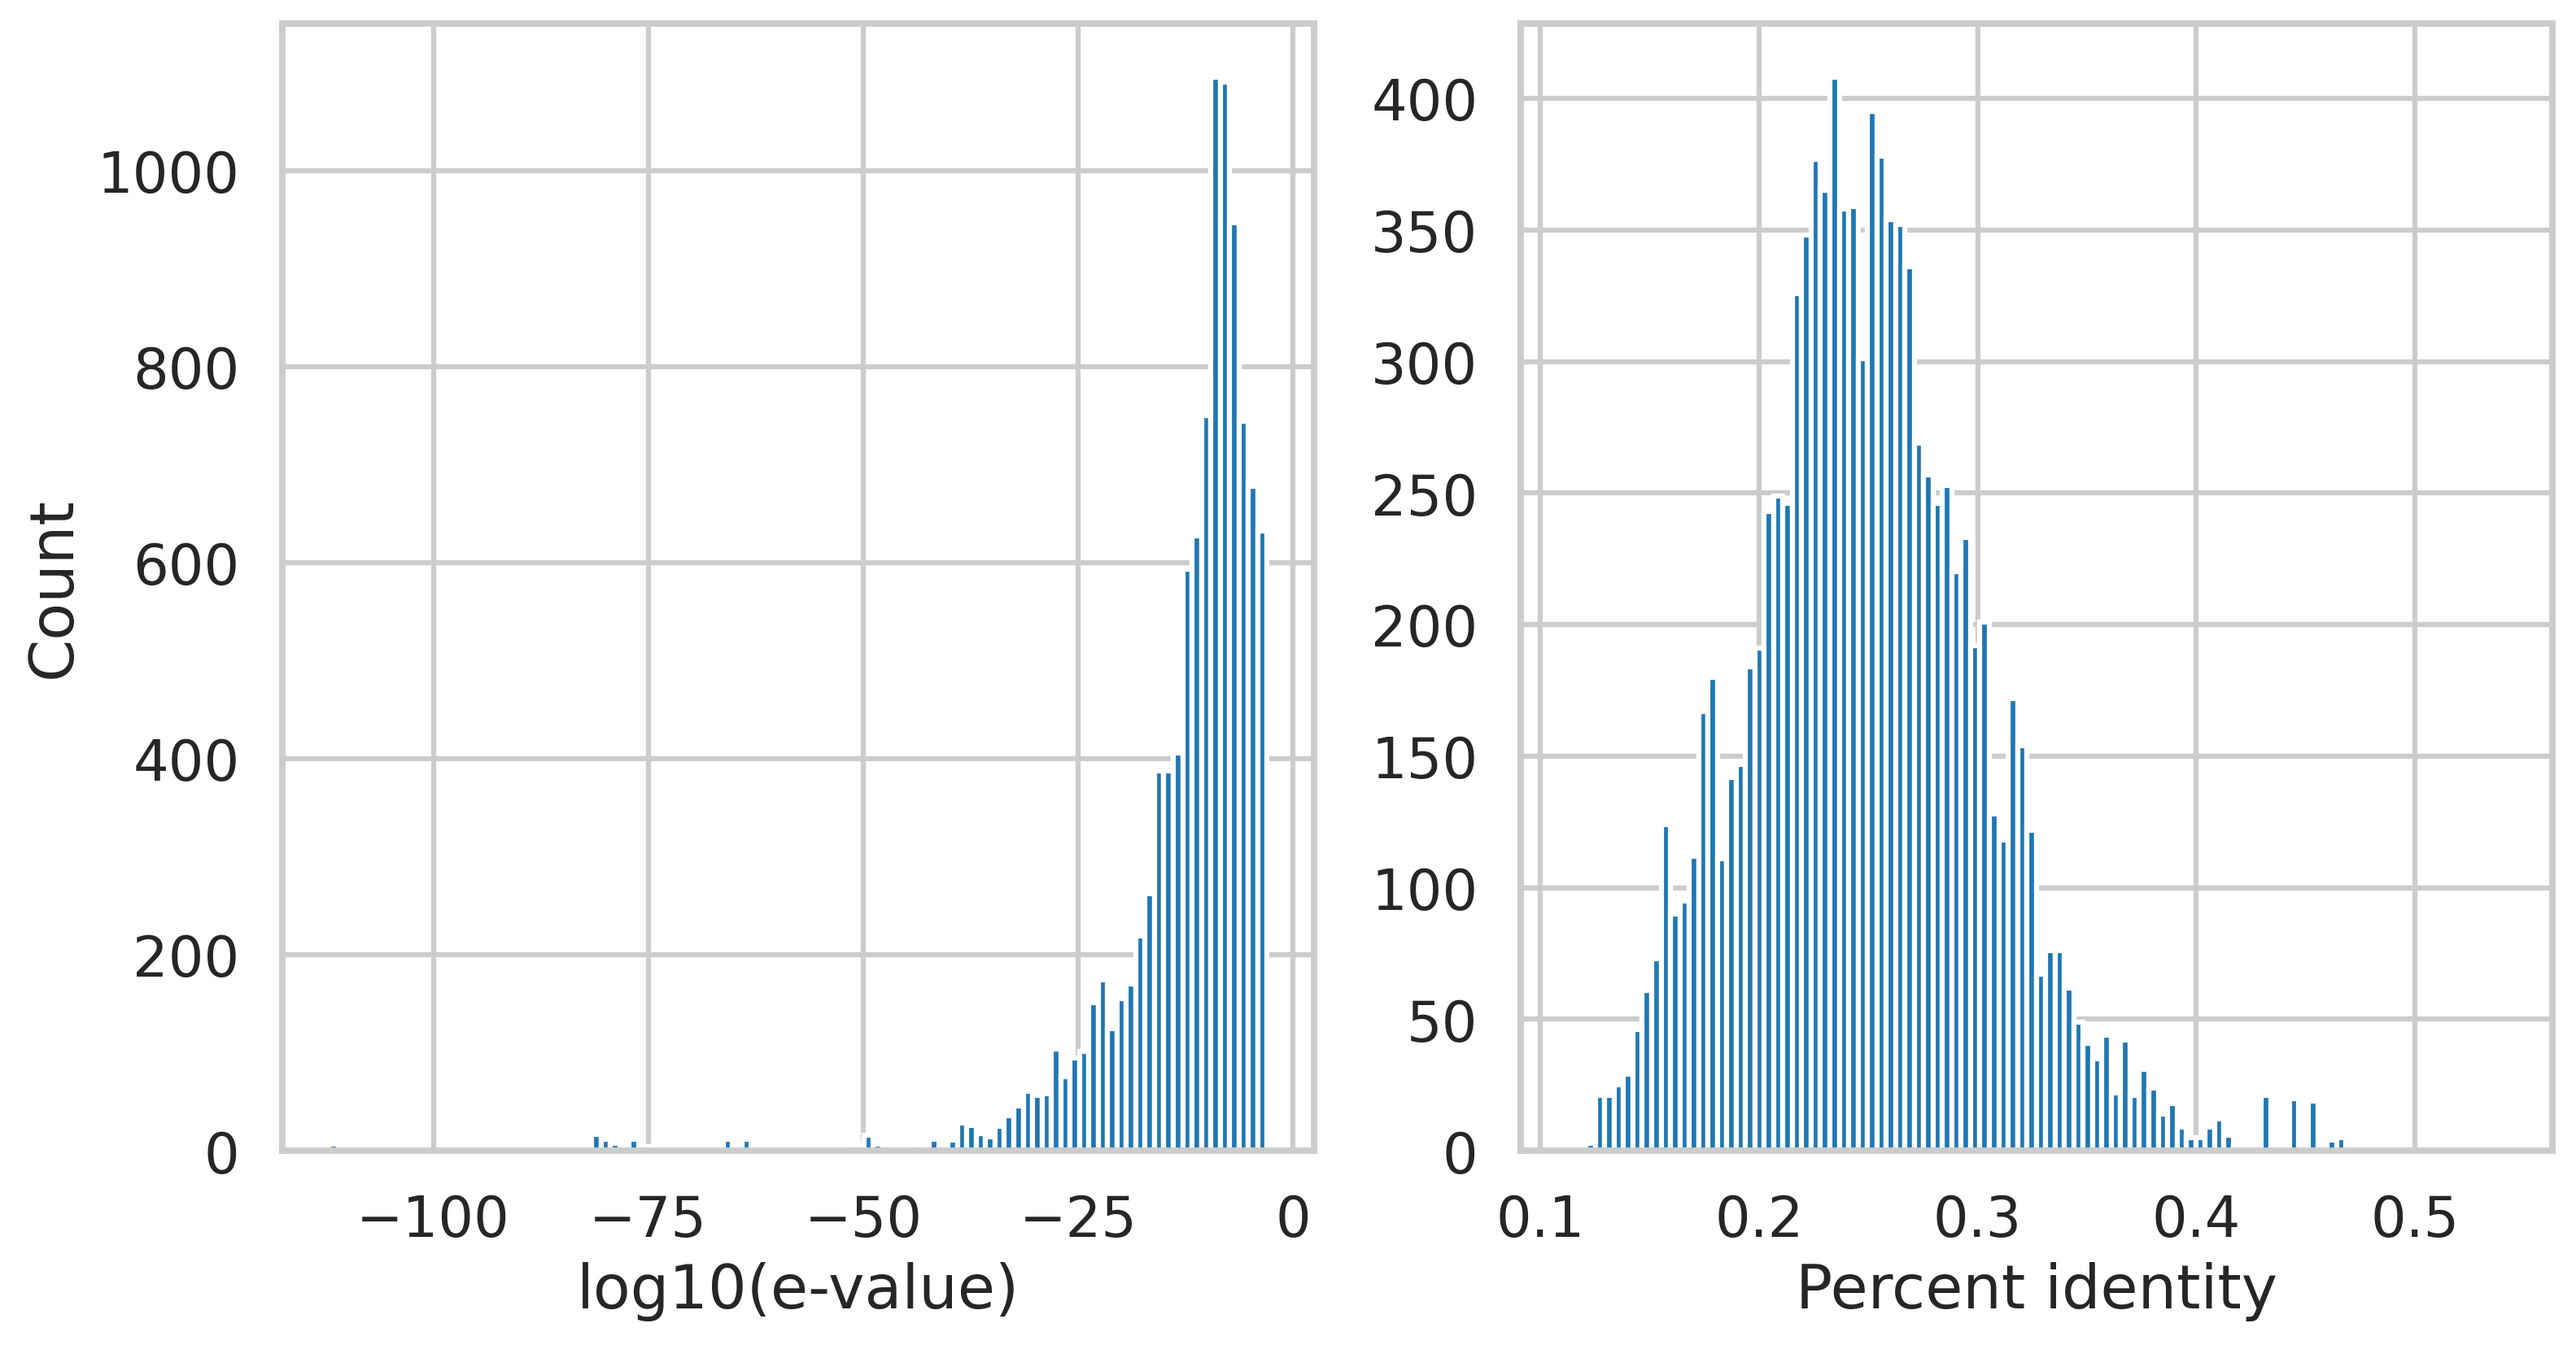
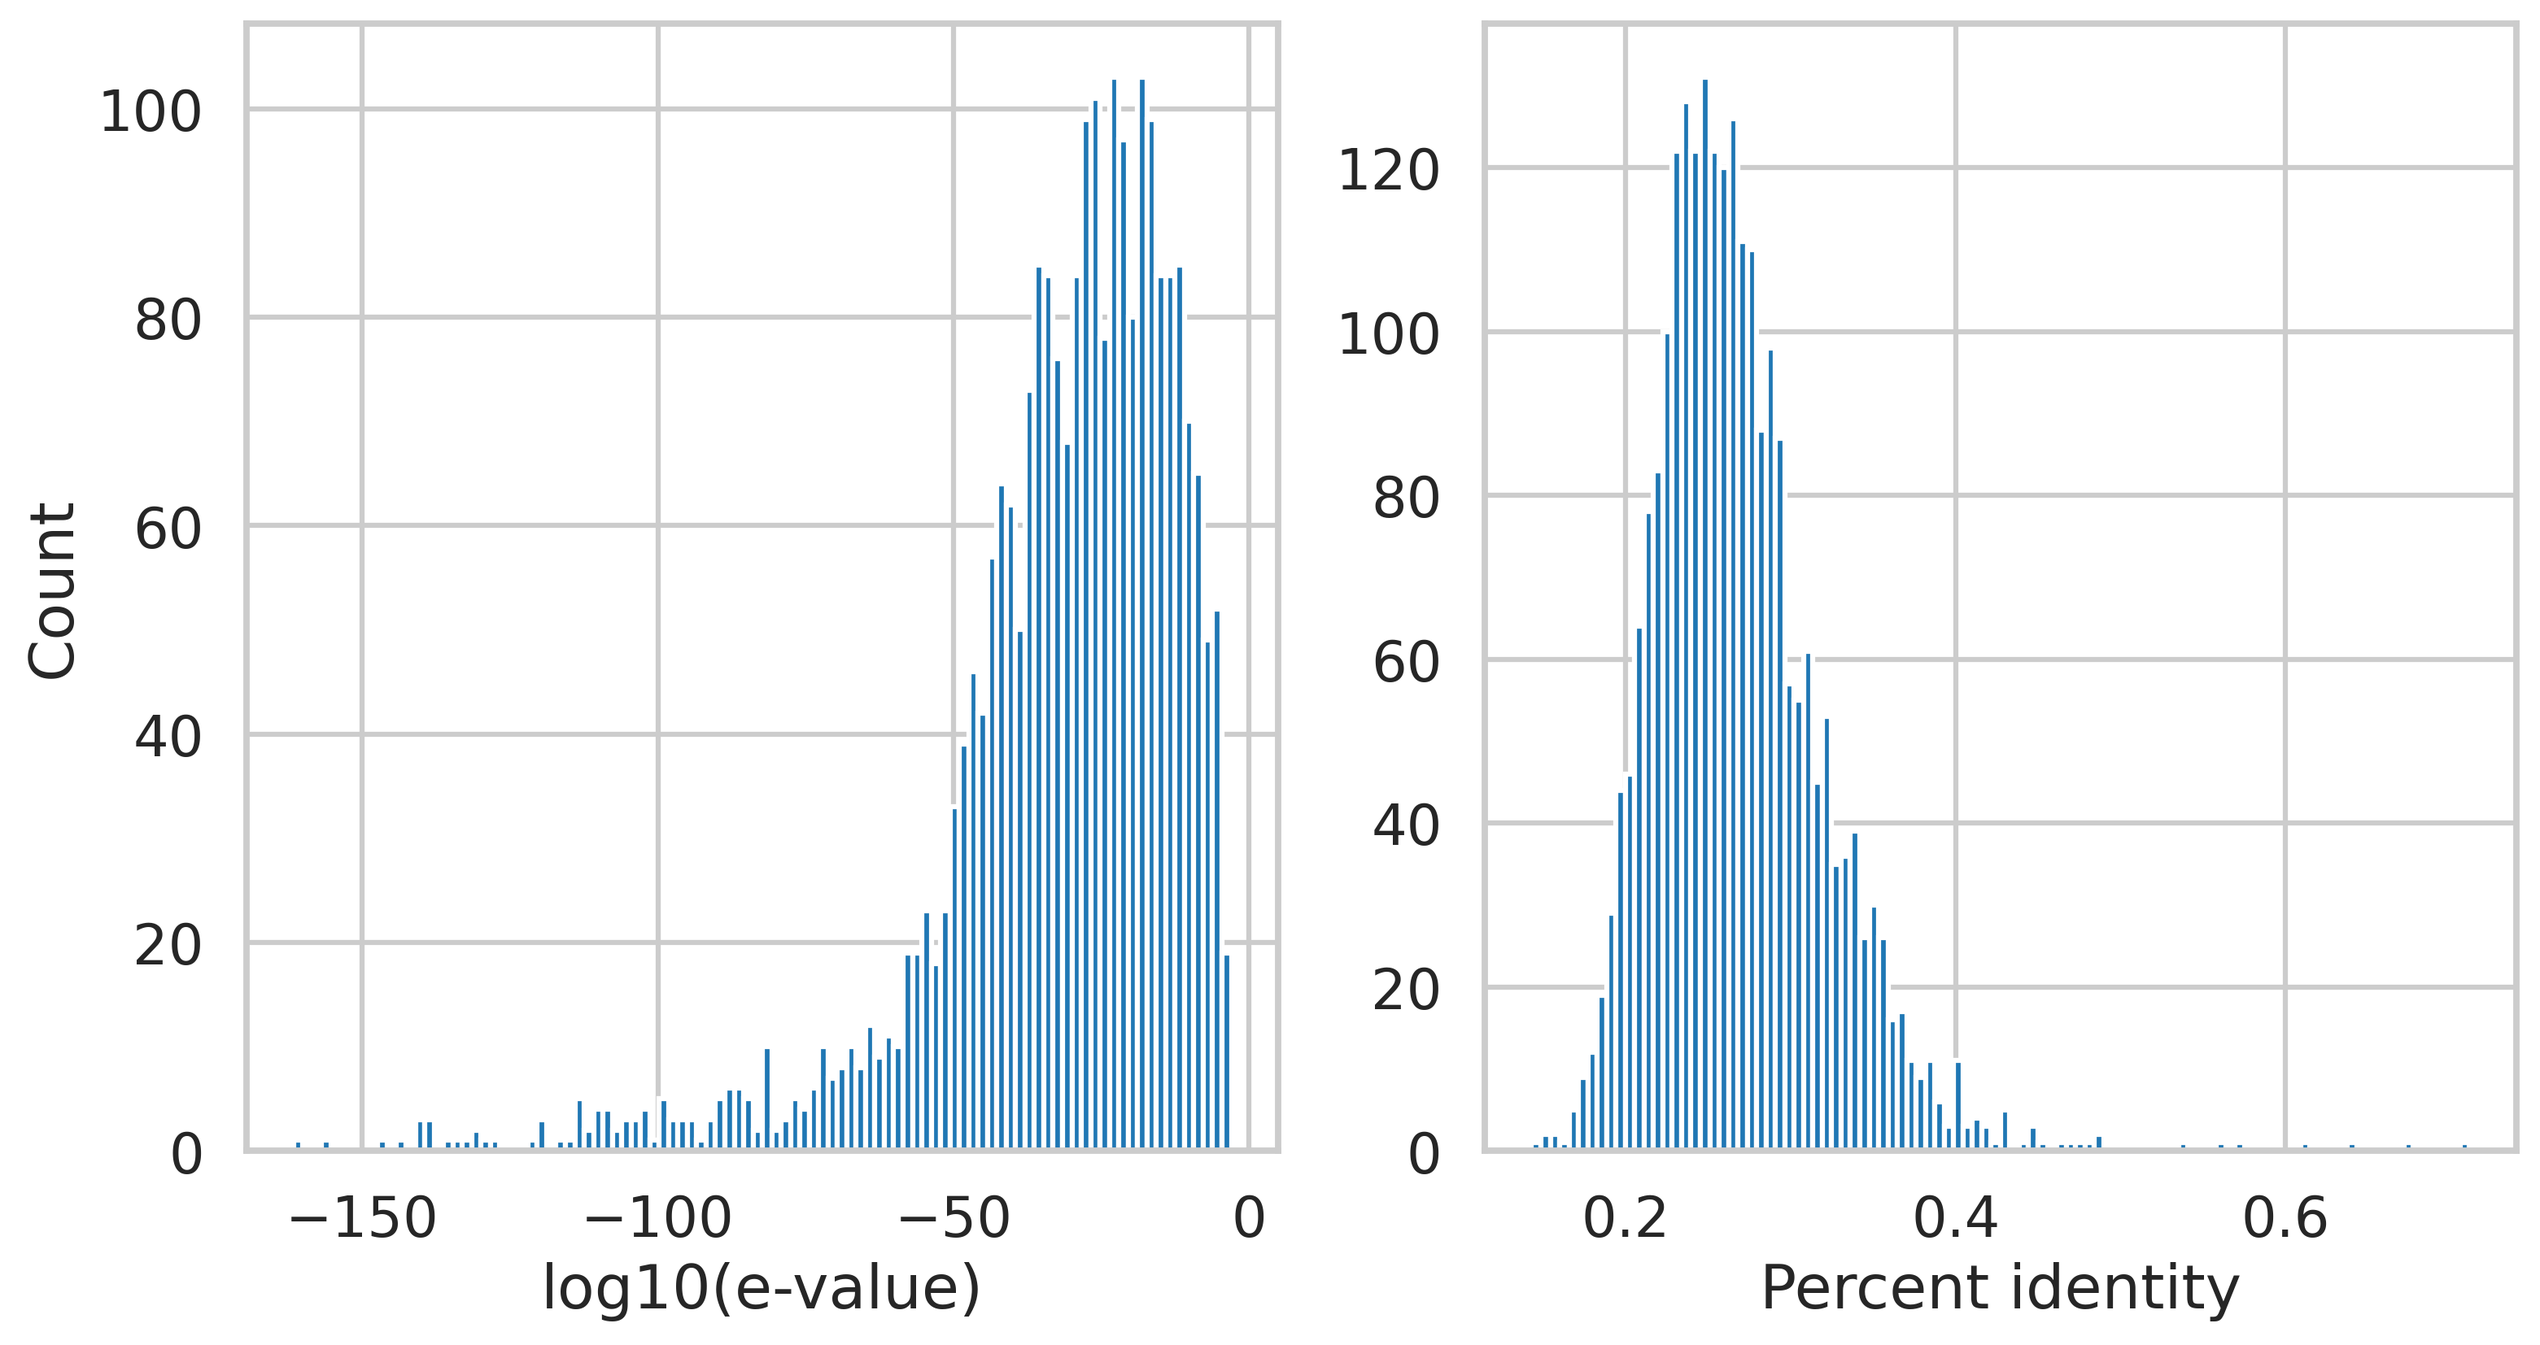
blasting training set at 40pid mmseq and using pid as the metric, eval loss also lower than at 20pid

diff --git a/scripts/blast_test_train.py b/scripts/blast_test_train.py
@@ -19,6 +19,16 @@ if __name__ == '__main__':
     # Load dataset
     ds = datasets.load_from_disk('./data/dataset')
 
+    # select one seq from each cluster
+    # keep only a single sequence from each cluster
+    # first mark the indexes of each
+    cluster_dict = {}
+    for i, clust in enumerate(ds['test']['cluster']):
+        cluster_dict[clust] = i
+    keep_indexes = set(cluster_dict.values())
+    ds['test'] = ds['test'].filter(lambda x, idx: idx in keep_indexes, with_indices=True)
+    print(len(ds['test']))
+
     # Write query sequence to file
     query_file_path = f'./tmp/blast_query.fasta'
     with open(query_file_path, 'w') as f:
@@ -87,6 +97,7 @@ if __name__ == '__main__':
     # compute quantiles of both and save metrics to json
     metrics = pd.DataFrame({'e': es, 'perc_id': perc_identities}).describe().to_dict()
     metrics['n_aligned'] = num_aligned
+    metrics['n_total'] = len(ds['test'])
     with open('./data/test_train_blast_metrics.json', 'w') as f:
         json.dump(metrics, f, indent=4)
 
